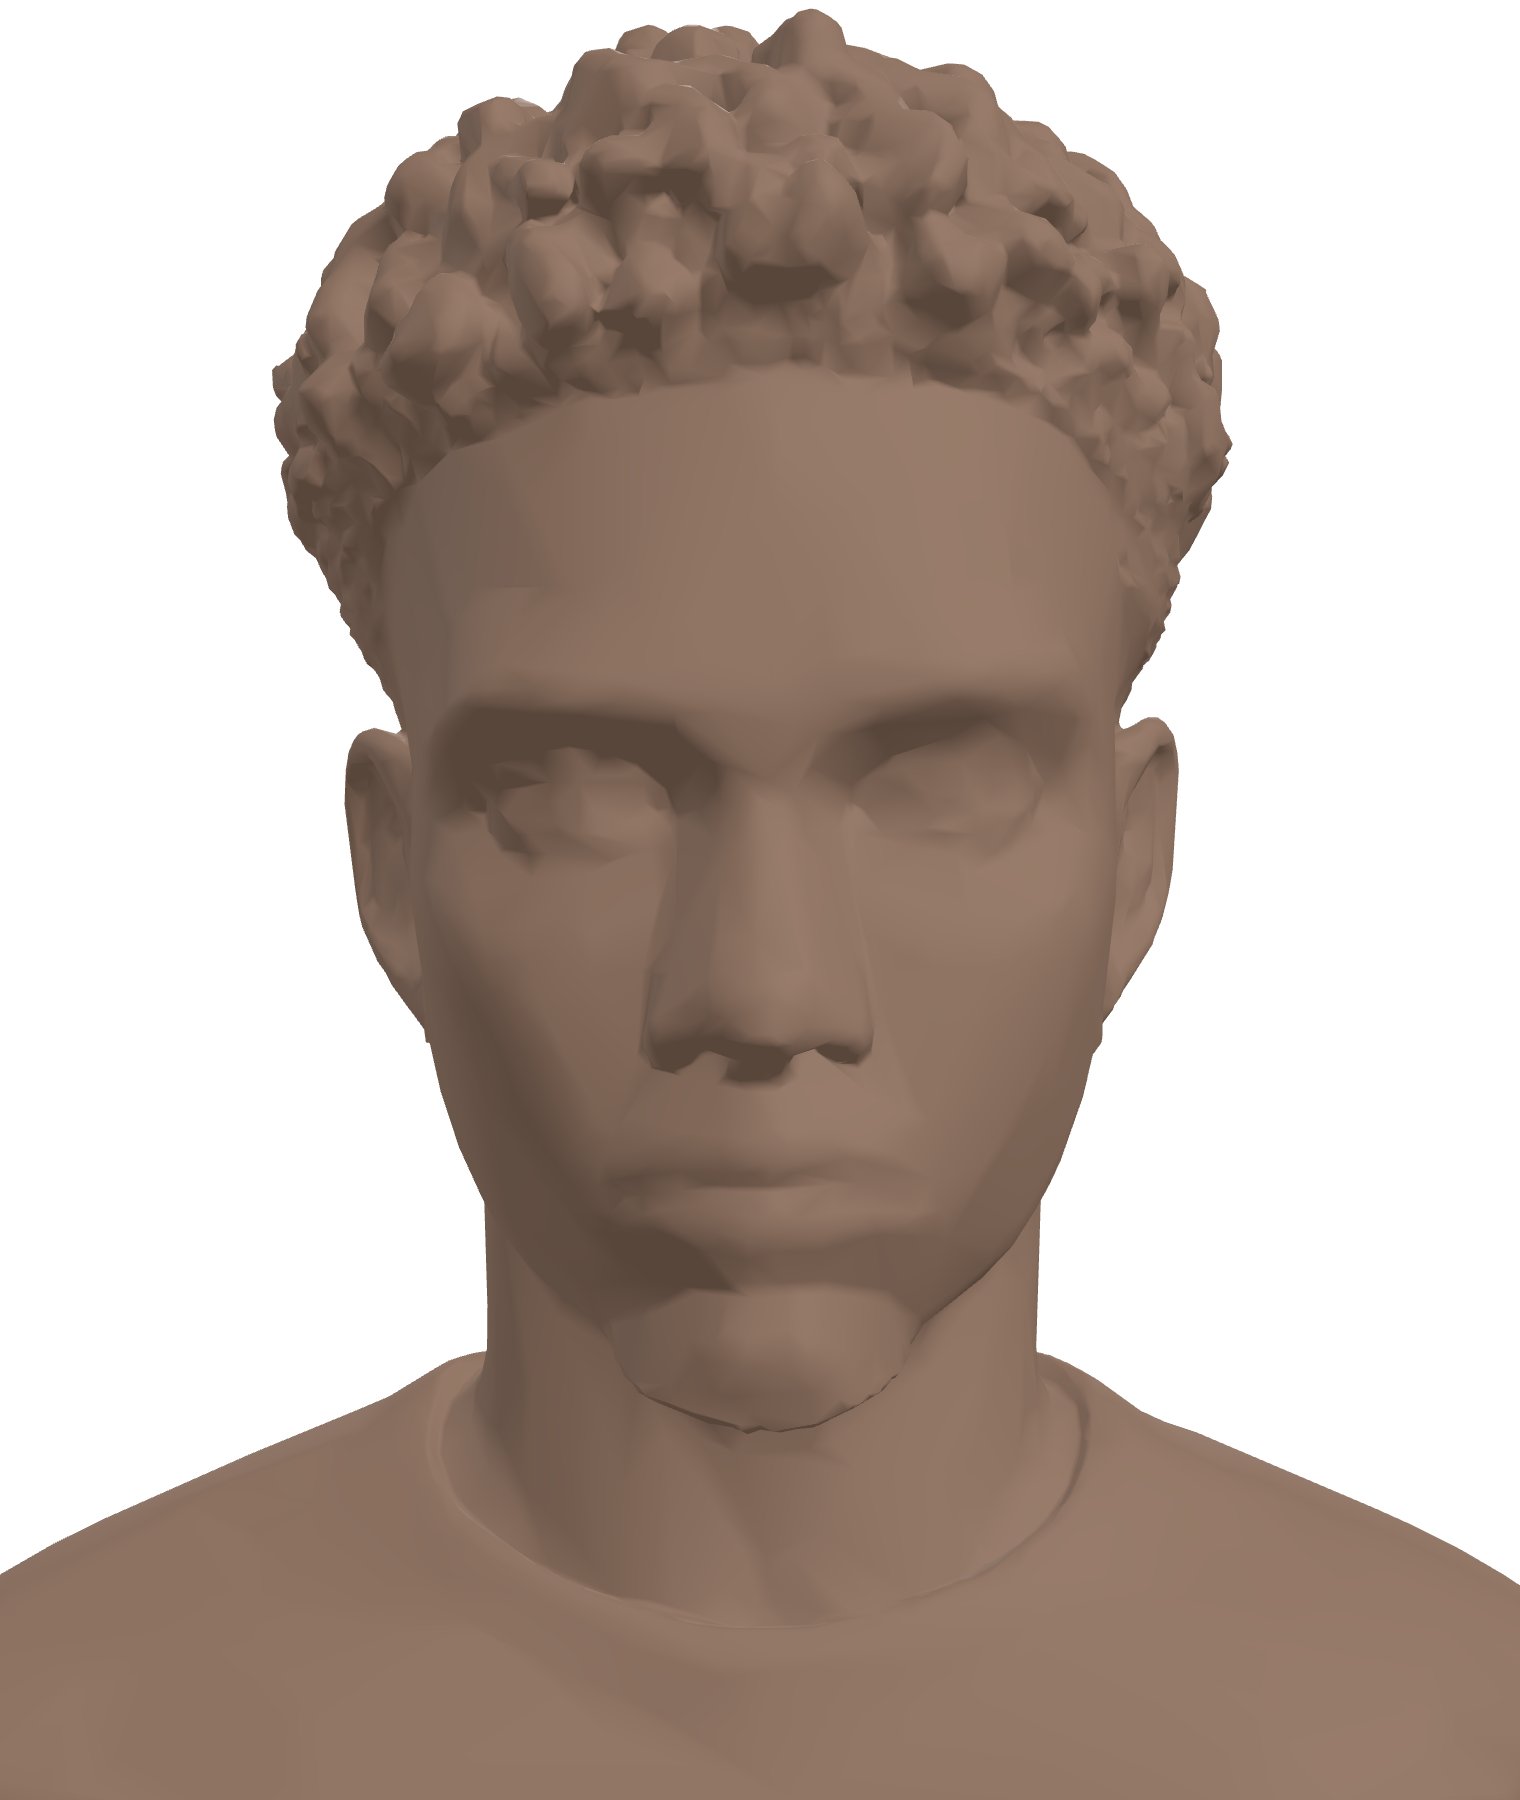
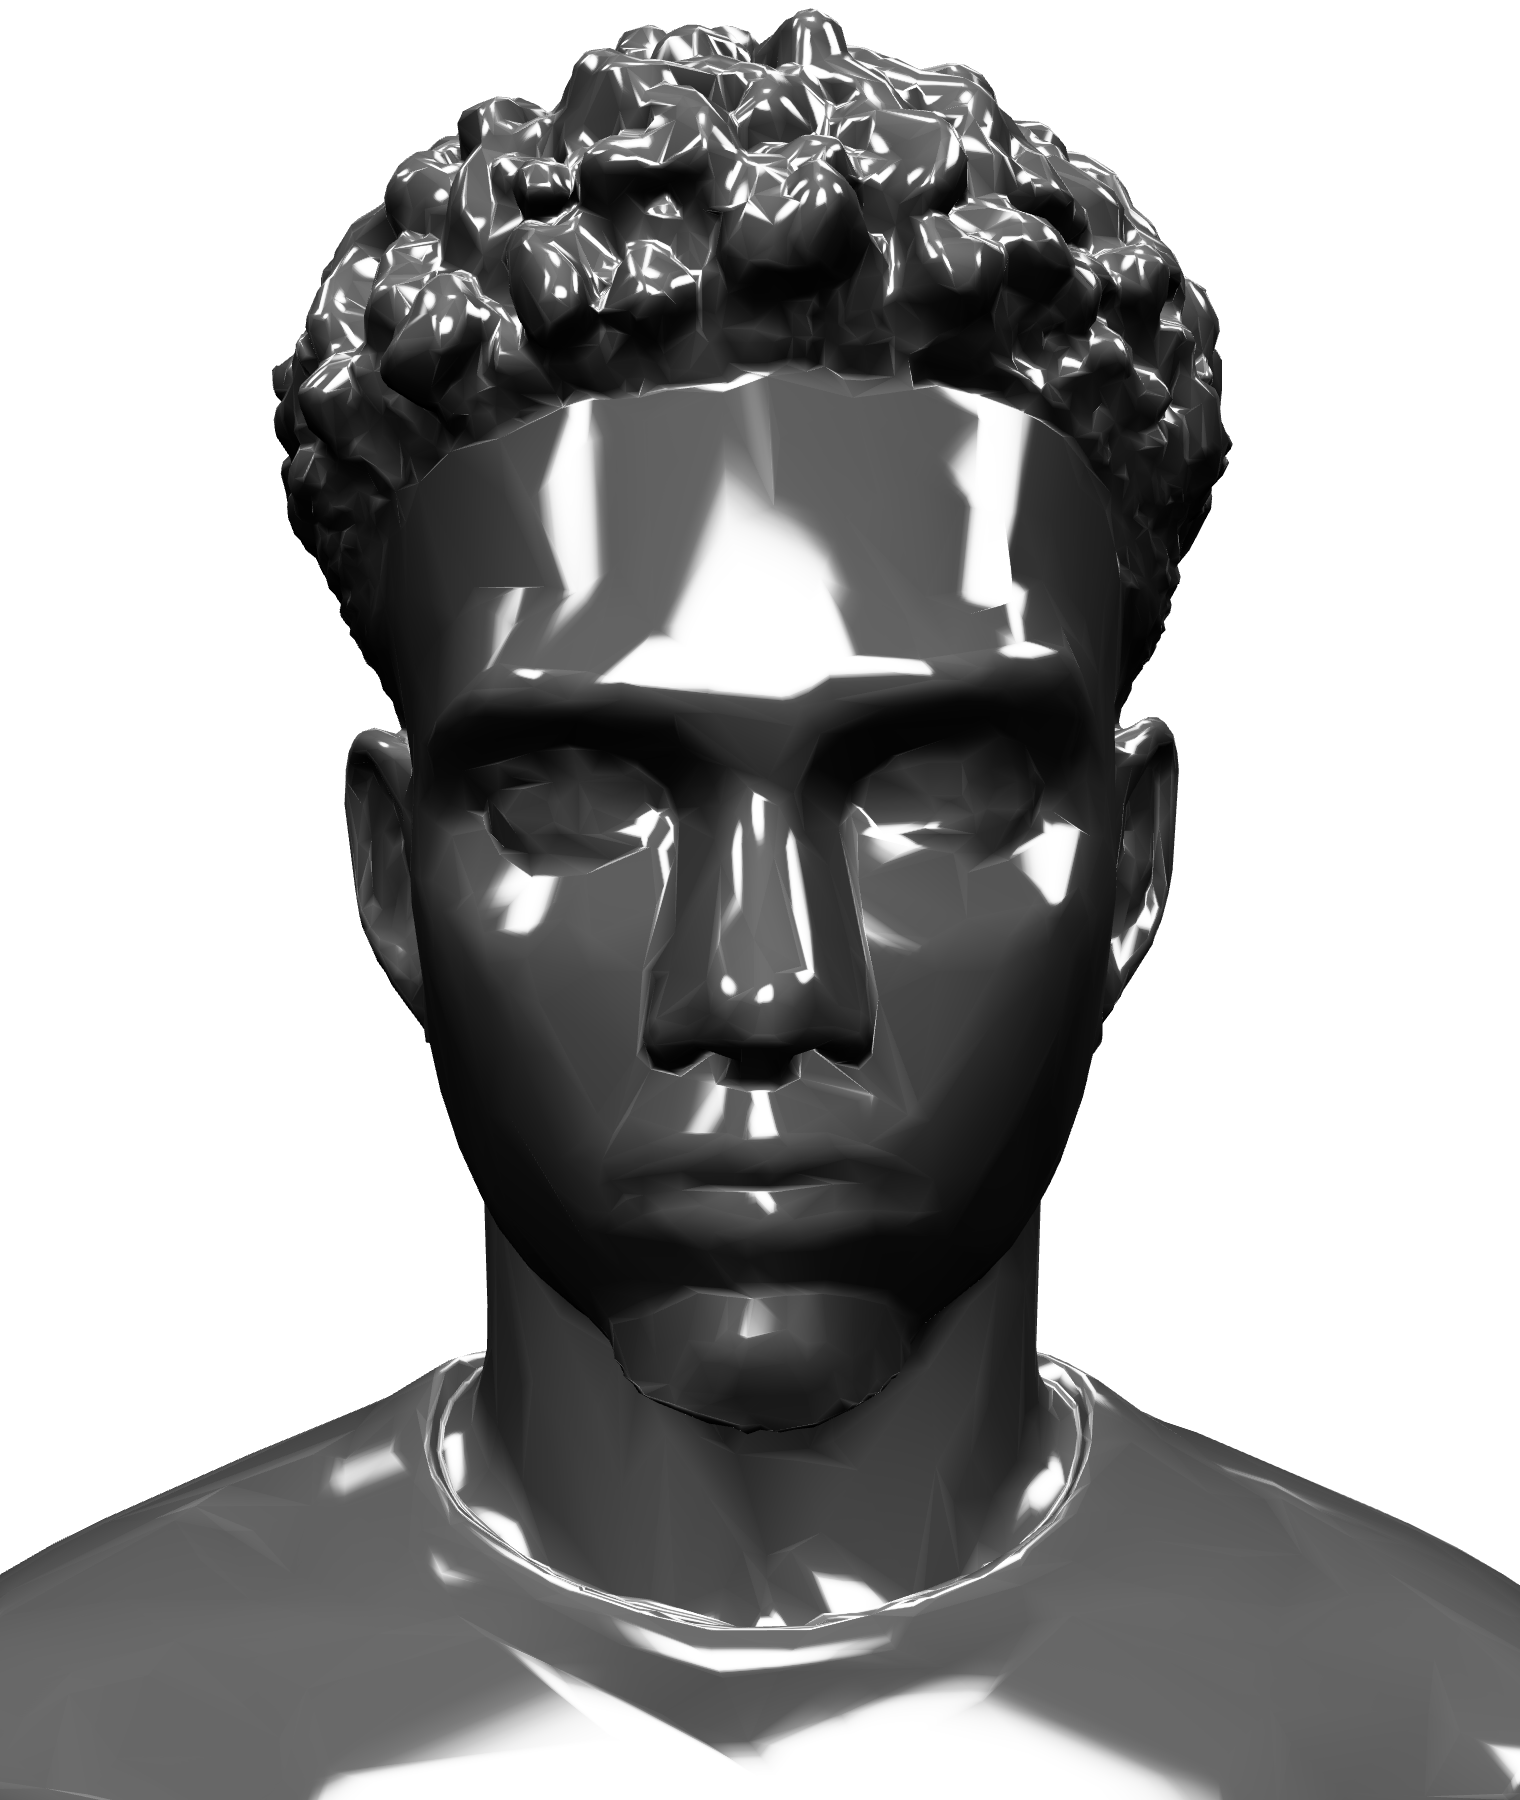
Chrome/liquid-metal finish on the 3D head (fayemi.design look)
- polished metal material (metalness 1, roughness 0.12) reflecting a
  procedural RoomEnvironment studio; ACES tonemapping + slight contrast
- regenerated the fallback still in chrome; subtle canvas contrast filter

diff --git a/components/home/HeadModel.tsx b/components/home/HeadModel.tsx
@@ -1,37 +1,58 @@
 'use client';
 
-import { Suspense, useMemo } from 'react';
-import { Canvas } from '@react-three/fiber';
+import { Suspense, useEffect, useMemo } from 'react';
+import { Canvas, useThree } from '@react-three/fiber';
 import { OrbitControls, useGLTF } from '@react-three/drei';
+import { RoomEnvironment } from 'three/examples/jsm/environments/RoomEnvironment.js';
 import * as THREE from 'three';
 
-/* A full 3D bust generated from the single portrait (Hunyuan3D). Rendered as a
-   clay sculpture you can orbit 360°: drag to spin, slow idle auto-rotate.
-   Monochrome on purpose — honest about the generated geometry and it reads as
-   an intentional sculpture rather than a photo pretending to be 3D. */
+/* A full 3D bust generated from the single portrait (Hunyuan3D), rendered as a
+   polished chrome / liquid-metal sculpture you can orbit 360°: drag to spin,
+   slow idle auto-rotate. The mirror finish comes from a procedural studio
+   environment (RoomEnvironment) — no external HDR to fetch. */
 
 const MODEL = '/head/head.glb';
+
+/* Procedural studio IBL so the metal has something to reflect. */
+function StudioEnv() {
+  const gl = useThree((s) => s.gl);
+  const scene = useThree((s) => s.scene);
+  useEffect(() => {
+    const pmrem = new THREE.PMREMGenerator(gl);
+    const env = pmrem.fromScene(new RoomEnvironment(), 0.04).texture;
+    scene.environment = env;
+    return () => {
+      env.dispose();
+      pmrem.dispose();
+      scene.environment = null;
+    };
+  }, [gl, scene]);
+  return null;
+}
 
 function Bust() {
   const gltf = useGLTF(MODEL, true);
 
   const object = useMemo(() => {
     const o = gltf.scene.clone(true);
-    // center the bust, normalise scale, then drop it so the HEAD sits at origin
     const box = new THREE.Box3().setFromObject(o);
     const c = box.getCenter(new THREE.Vector3());
     const s = box.getSize(new THREE.Vector3());
     o.position.sub(c);
     o.scale.setScalar(2 / Math.max(s.x, s.y, s.z));
-    o.position.y -= 0.05; // nudge so the whole head centres, a hint of shoulder below
+    o.position.y -= 0.05; // centre the head, a hint of shoulder below
 
-    const clay = new THREE.MeshStandardMaterial({ color: '#c6a089', roughness: 0.72, metalness: 0 });
+    const chrome = new THREE.MeshStandardMaterial({
+      color: '#ffffff',
+      metalness: 1.0,
+      roughness: 0.12,
+      envMapIntensity: 1.0,
+    });
     o.traverse((m) => {
       const mesh = m as THREE.Mesh;
       if (mesh.isMesh) {
         mesh.geometry.computeVertexNormals();
-        mesh.material = clay;
-        mesh.castShadow = true;
+        mesh.material = chrome;
       }
     });
     return o;
@@ -48,13 +69,15 @@ export default function HeadModel({ animate = true }: { animate?: boolean }) {
       dpr={[1, 2]}
       gl={{ antialias: true, alpha: true }}
       camera={{ position: [0, 0, 4.0], fov: 28 }}
+      onCreated={({ gl }) => {
+        gl.toneMapping = THREE.ACESFilmicToneMapping;
+        gl.toneMappingExposure = 1.05;
+      }}
       style={{ width: '100%', height: '100%', background: 'transparent', cursor: 'grab' }}
     >
-      <ambientLight intensity={0.55} />
-      <directionalLight position={[2, 2.5, 3]} intensity={1.15} />
-      <directionalLight position={[-3, 1, -2]} intensity={0.4} />
-      <directionalLight position={[0, 1, -3]} intensity={0.5} />
+      <ambientLight intensity={0.15} />
       <Suspense fallback={null}>
+        <StudioEnv />
         <Bust />
       </Suspense>
       <OrbitControls

diff --git a/components/home/shell.module.css b/components/home/shell.module.css
@@ -765,6 +765,10 @@ img.socialMarkArt {
 }
 .headCanvas {
   z-index: 1;
+  filter: contrast(1.06);
+}
+.headStill {
+  filter: contrast(1.06);
 }
 /* a quiet affordance that fades out once you grab the head */
 .headHint {
